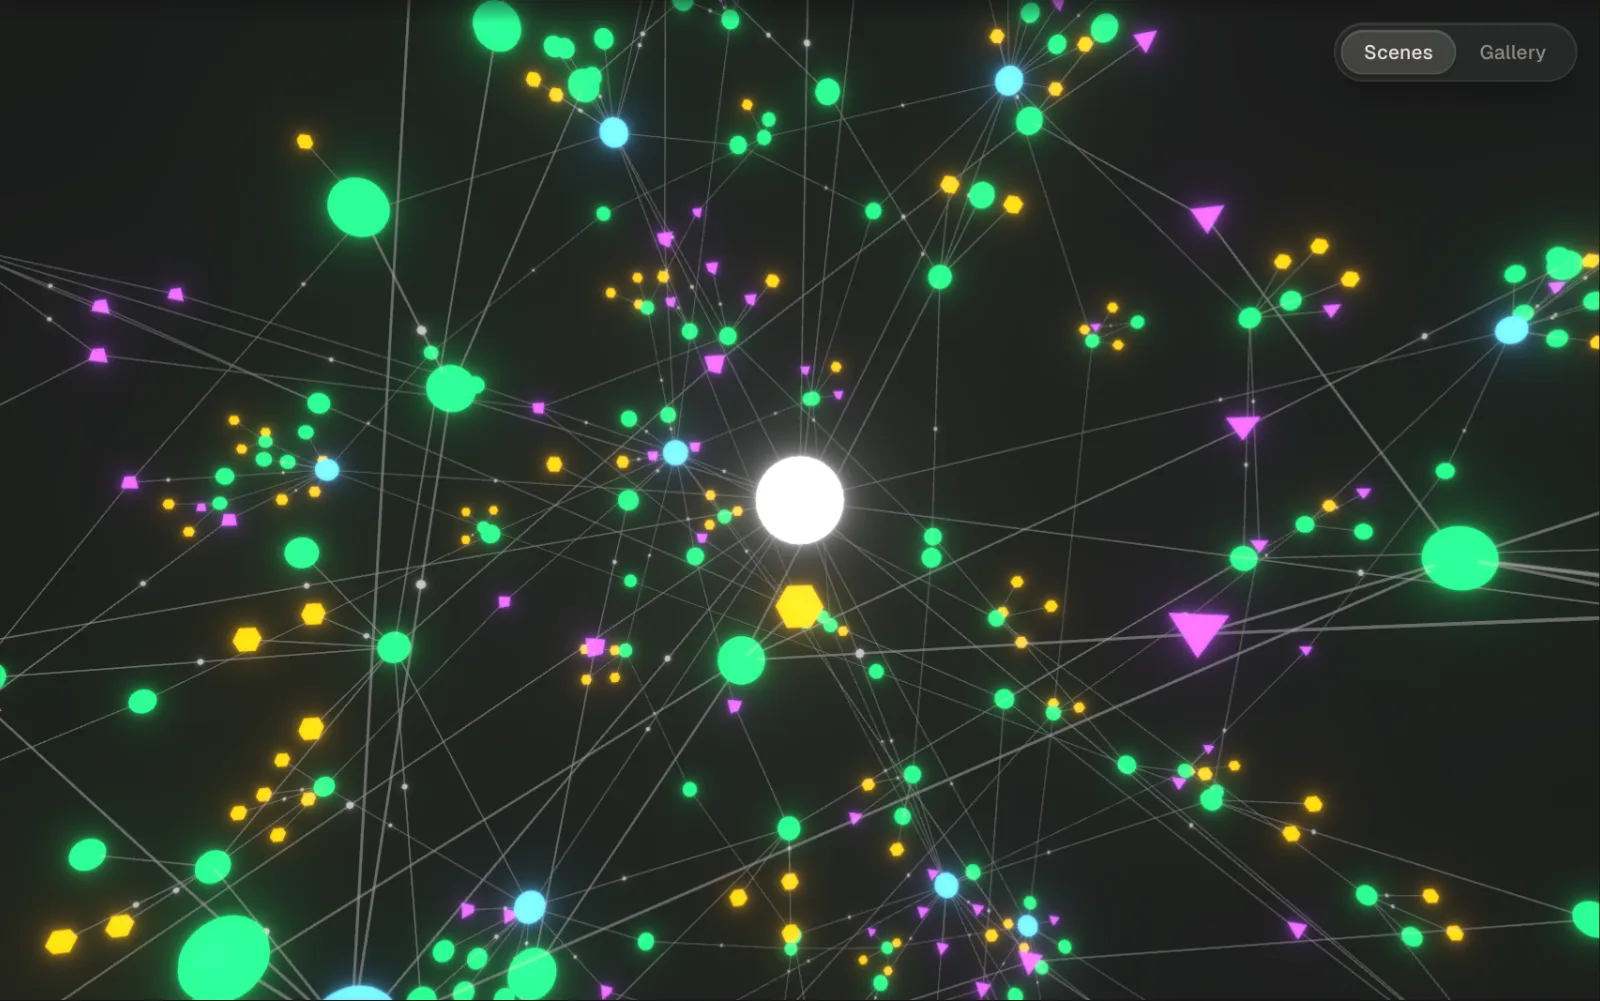
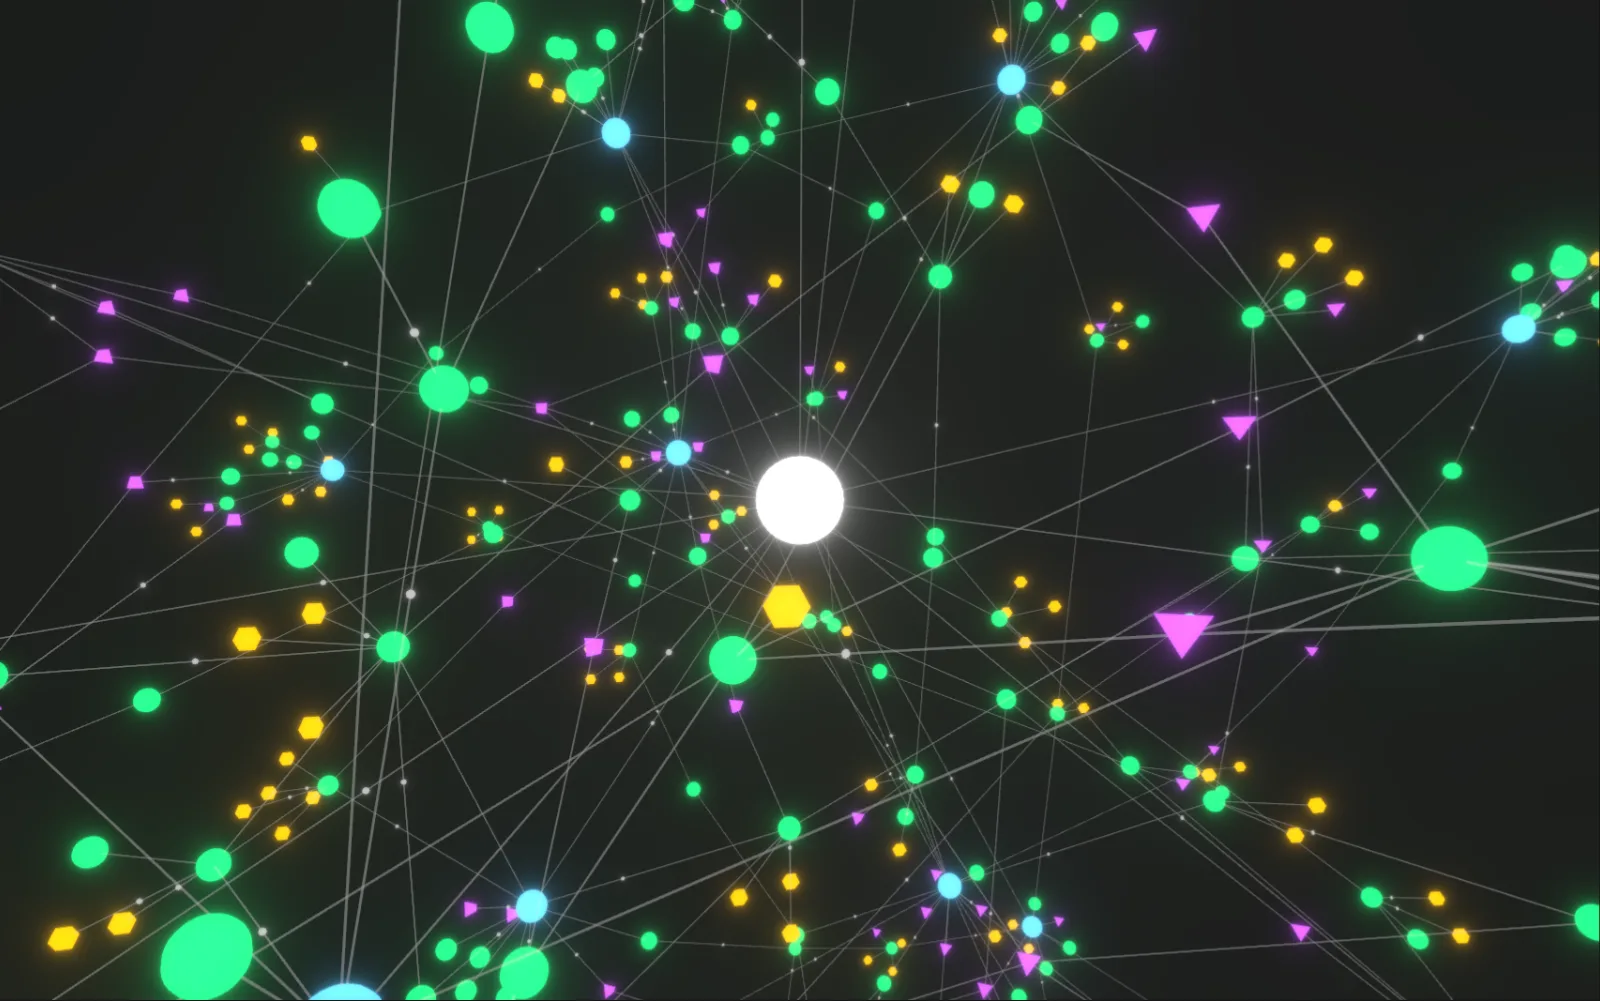
fix: tabs were baked into the torus poster
The torus poster was re-captured (57bf4e9) after the tabs became a fixed
overlay; the capture script only hid in-content labels, so the tabs sat
over the first card and ended up in the image. On load the real tabs
faded in while the painted copy rose with the card's fly-in, reading as a
second tabs animation. Fixed overlays (tabs, fade strips) now carry
data-poster-hide, which the capture script hides; torus poster and OG
image re-captured clean.

Claude-Session: https://claude.ai/code/session_01Vfbzc6RXiZzHMN87fvMCKc

diff --git a/scripts/capture-posters.ts b/scripts/capture-posters.ts
@@ -58,11 +58,12 @@ try {
 		reducedMotion: "no-preference",
 	});
 	await page.goto(BASE_URL, { waitUntil: "networkidle" });
-	// Raw scene only: no label pill, border, rounded corners, or dev overlays
-	// (the app shell is <body>'s first child; devtools render after it).
+	// Raw scene only: no label pill, border, rounded corners, fixed page overlays
+	// (tabs, fade strips: `data-poster-hide`), or dev overlays (the app shell is
+	// <body>'s first child; devtools render after it).
 	await page.addStyleTag({
 		content: [
-			"[data-card-label]{display:none!important}",
+			"[data-card-label],[data-poster-hide]{display:none!important}",
 			"[data-scene-media]{border:0!important;border-radius:0!important}",
 			"body>:not(:first-child){display:none!important}",
 		].join(""),

diff --git a/src/components/layout/fade.tsx b/src/components/layout/fade.tsx
@@ -2,8 +2,14 @@
 export function Fade() {
 	return (
 		<>
-			<div className="pointer-events-none fixed inset-x-0 top-0 z-20 h-8 bg-gradient-to-b from-background to-transparent" />
-			<div className="pointer-events-none fixed inset-x-0 bottom-0 z-20 h-8 bg-gradient-to-t from-background to-transparent" />
+			<div
+				data-poster-hide
+				className="pointer-events-none fixed inset-x-0 top-0 z-20 h-8 bg-gradient-to-b from-background to-transparent"
+			/>
+			<div
+				data-poster-hide
+				className="pointer-events-none fixed inset-x-0 bottom-0 z-20 h-8 bg-gradient-to-t from-background to-transparent"
+			/>
 		</>
 	);
 }

diff --git a/src/components/layout/view-tabs.tsx b/src/components/layout/view-tabs.tsx
@@ -23,7 +23,10 @@ export type View = (typeof TABS)[number]["view"];
  */
 export function ViewTabs({ view }: { view?: View }) {
 	return (
-		<div className="pointer-events-none fixed inset-x-0 bottom-4 z-30 lg:top-8 lg:bottom-auto">
+		<div
+			data-poster-hide
+			className="pointer-events-none fixed inset-x-0 bottom-4 z-30 lg:top-8 lg:bottom-auto"
+		>
 			<div className="mx-auto flex w-full max-w-[1600px] justify-center lg:justify-end lg:px-8">
 				<nav
 					aria-label="View"

diff --git a/AGENTS.md b/AGENTS.md
@@ -31,7 +31,8 @@ and `torus-ts/` (the real Torus codebase, reference for the Torus scene).
 - `bun run deploy` — build + `wrangler deploy`
 - `bun run posters [slug…]` — re-capture card posters + OG images into `public/posters/`
   (headless system Chrome via playwright-core; uses/starts the dev server, override with
-  `BASE_URL=…`). Re-run after changing a scene's look or adding a project.
+  `BASE_URL=…`). Re-run after changing a scene's look or adding a project. Any new
+  `position: fixed` overlay must carry `data-poster-hide`, or it gets baked into posters.
 
 Before handing work back: `bun run typecheck` and `bunx biome ci` (what CI runs, plus
 `bun run build`; `.github/workflows/ci.yml`). Formatting-only commits go in
